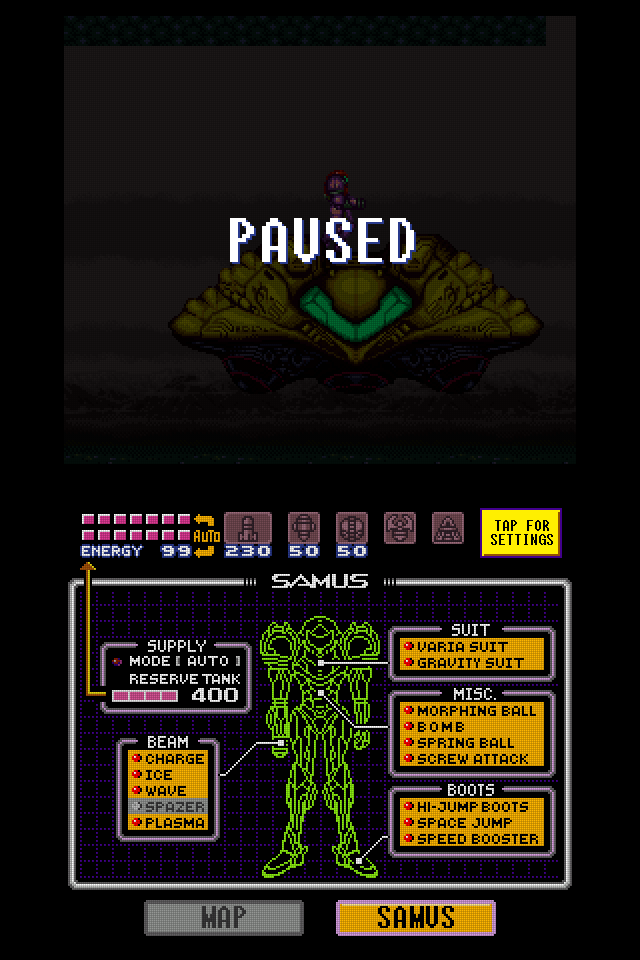
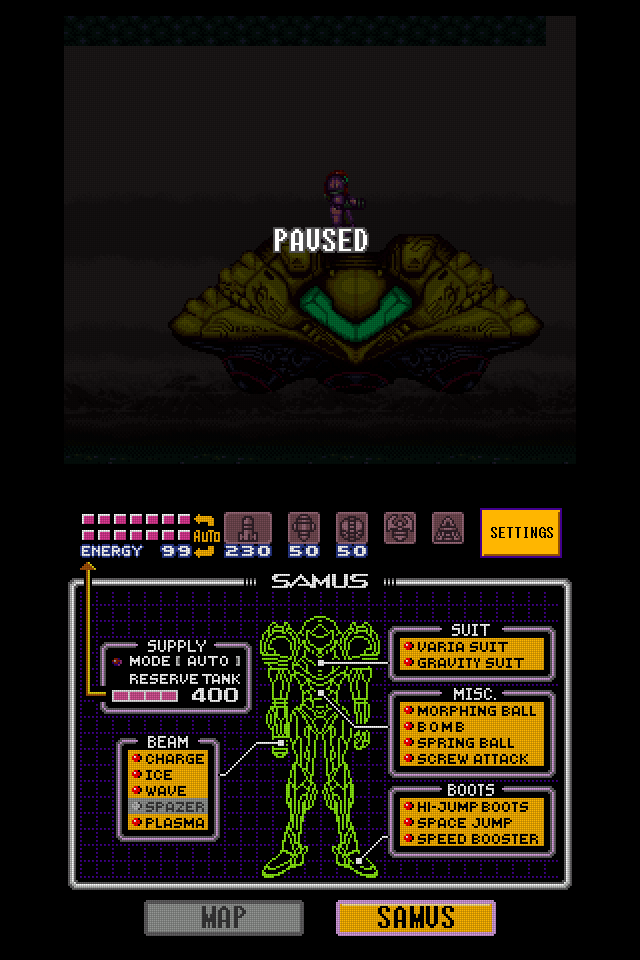
Smaller outlined PAUSED; orange SETTINGS button
PAUSED is drawn at the game's text size, white with a one-pixel dark
grey edge (82,81,82) like the opening's text crawl. The settings button
reads just SETTINGS, on the orange of the equipment screen's rows.

Claude-Session: https://claude.ai/code/session_01XSANKdwaLWqU7kMzjuHK3m

Changed region(s): [[0.3438, 0.2188, 0.6562, 0.2812], [0.75, 0.5312, 0.875, 0.5938]]

diff --git a/src/game.c b/src/game.c
@@ -410,21 +410,20 @@ static void draw_settings_button(int s) {
 	SDL_Rect b = settings_button_rect(s);
 	SDL_Rect img = ui_image_rect(s, SNES_W, SNES_H, cfg->mapScale);
 	int u = SDL_max(1, img.w / SNES_W);
-	ui_sm_button(s, b, u, buttonPressed);
-	/* two lines, as large as fits inside the face */
-	int innerW = b.w - u * 6, innerH = b.h - u * 5;
-	/* the font's capitals are 11 dots tall, "SETTINGS" 63 dots wide; whole
-	 * pixels a dot when that fills the button, else smoothed to fit */
-	double dot = SDL_min(innerW / 63.0, innerH / 25.0);
+	/* the orange of the equipment screen's rows */
+	ui_sm_button_face(s, b, u, buttonPressed, (SDL_Color) { 255, 182, 0, 255 });
+	/* one line, as large as fits inside the face; the font's capitals are
+	 * 11 dots tall, "SETTINGS" 63 dots wide; whole pixels a dot when that
+	 * fills the button, else smoothed to fit */
+	int innerW = b.w - u * 6, innerH = b.h - u * 6;
+	double dot = SDL_min(innerW / 63.0, innerH / 11.0);
 	int font = TF_BOLD;
 	if (dot < 1) dot = 1;
 	else if (dot - (int) dot > 0.25) font = TF_SMOOTH;
 	else dot = (int) dot;
-	int cap = (int) (dot * 11), gap = (int) (dot * 3);
-	int cy = b.y + b.h / 2;
+	int cap = (int) (dot * 11);
 	int off = buttonPressed ? u : 0;
-	ui_font_text(s, font, b.x + b.w / 2 + off, cy - (cap + gap) / 2 + off, cap, "TAP FOR", SM_TEXT_DARK, 0);
-	ui_font_text(s, font, b.x + b.w / 2 + off, cy + (cap + gap) / 2 + off, cap, "SETTINGS", SM_TEXT_DARK, 0);
+	ui_font_text(s, font, b.x + b.w / 2 + off, b.y + b.h / 2 + off, cap, "SETTINGS", SM_TEXT_DARK, 0);
 }
 
 static bool in_rect(SDL_Rect r, int x, int y) {
@@ -1185,9 +1184,16 @@ static void draw_game(void) {
 			SDL_Rect img = ui_image_rect(s, SNES_W, SNES_H, cfg->scale);
 			ui_fill(s, img, (SDL_Color) { 0, 0, 0, 150 });
 			int u = SDL_max(1, img.w / SNES_W);
-			int cap = tf_cap(u * 22);
-			ui_font_text(s, TF_BOLD, img.x + img.w / 2 + u, img.y + img.h / 2 + u, cap, "PAUSED", SM_BLUE, 0);
-			ui_font_text(s, TF_BOLD, img.x + img.w / 2, img.y + img.h / 2, cap, "PAUSED", SM_WHITE, 0);
+			/* the game's text size, white with a dark grey edge a pixel
+			 * wide, like the opening's text crawl */
+			int cap = tf_cap(u * 11);
+			int cx = img.x + img.w / 2, cy = img.y + img.h / 2;
+			for (int dy = -1; dy <= 1; ++dy) {
+				for (int dx = -1; dx <= 1; ++dx) {
+					if (dx || dy) ui_font_text(s, TF_BOLD, cx + dx * u, cy + dy * u, cap, "PAUSED", (SDL_Color) { 82, 81, 82, 255 }, 0);
+				}
+			}
+			ui_font_text(s, TF_BOLD, cx, cy, cap, "PAUSED", SM_WHITE, 0);
 		}
 		if (cfg->showFps) {
 			char buf[48];

diff --git a/src/ui.c b/src/ui.c
@@ -1733,11 +1733,15 @@ void ui_sm_bullet(int screen, int cx, int cy, int u, bool on) {
 }
 
 void ui_sm_button(int screen, SDL_Rect r, int u, bool pressed) {
+	ui_sm_button_face(screen, r, u, pressed, SM_YELLOW);
+}
+
+void ui_sm_button_face(int screen, SDL_Rect r, int u, bool pressed, SDL_Color faceColor) {
 	if (u < 1) u = 1;
 	/* like the pause screen's MAP button: purple edge, yellow face, brown shadow */
 	ui_fill(screen, r, SM_PURPLE);
 	SDL_Rect face = { r.x + u, r.y + u, r.w - 2 * u, r.h - 2 * u };
-	ui_fill(screen, face, pressed ? SM_BROWN : SM_YELLOW);
+	ui_fill(screen, face, pressed ? SM_BROWN : faceColor);
 	if (!pressed) {
 		ui_fill(screen, (SDL_Rect) { face.x + u, face.y + face.h - u, face.w - u, u }, SM_BROWN);
 		ui_fill(screen, (SDL_Rect) { face.x + face.w - u, face.y + u, u, face.h - u }, SM_BROWN);

diff --git a/src/ui.h b/src/ui.h
@@ -165,5 +165,7 @@ void ui_sm_frame(int screen, SDL_Rect r, int u, const char* title, int titleCap,
 void ui_sm_bullet(int screen, int cx, int cy, int u, bool on);
 /* a yellow button like the pause screen's MAP */
 void ui_sm_button(int screen, SDL_Rect r, int u, bool pressed);
+/* the same with another colour of face */
+void ui_sm_button_face(int screen, SDL_Rect r, int u, bool pressed, SDL_Color face);
 
 #endif

diff --git a/README.md b/README.md
@@ -50,7 +50,7 @@ Plus. Download `super-metroid-ds-v0.1-linux-aarch64.zip` from the
   MAP and SAMUS pages work while it's paused (equipment switched then takes
   effect when you go on). With one screen, START opens the game's own pause
   screen as usual.
-- Where the HUD's mini-map was, a **TAP FOR SETTINGS** button opens the
+- Where the HUD's mini-map was, a **SETTINGS** button opens the
   settings menu (HOME, or SELECT+START with `menu_combo`, open it too).
 - Menus and messages are drawn in the Super Metroid font, in the colours and
   shapes of the game's pause screen.
